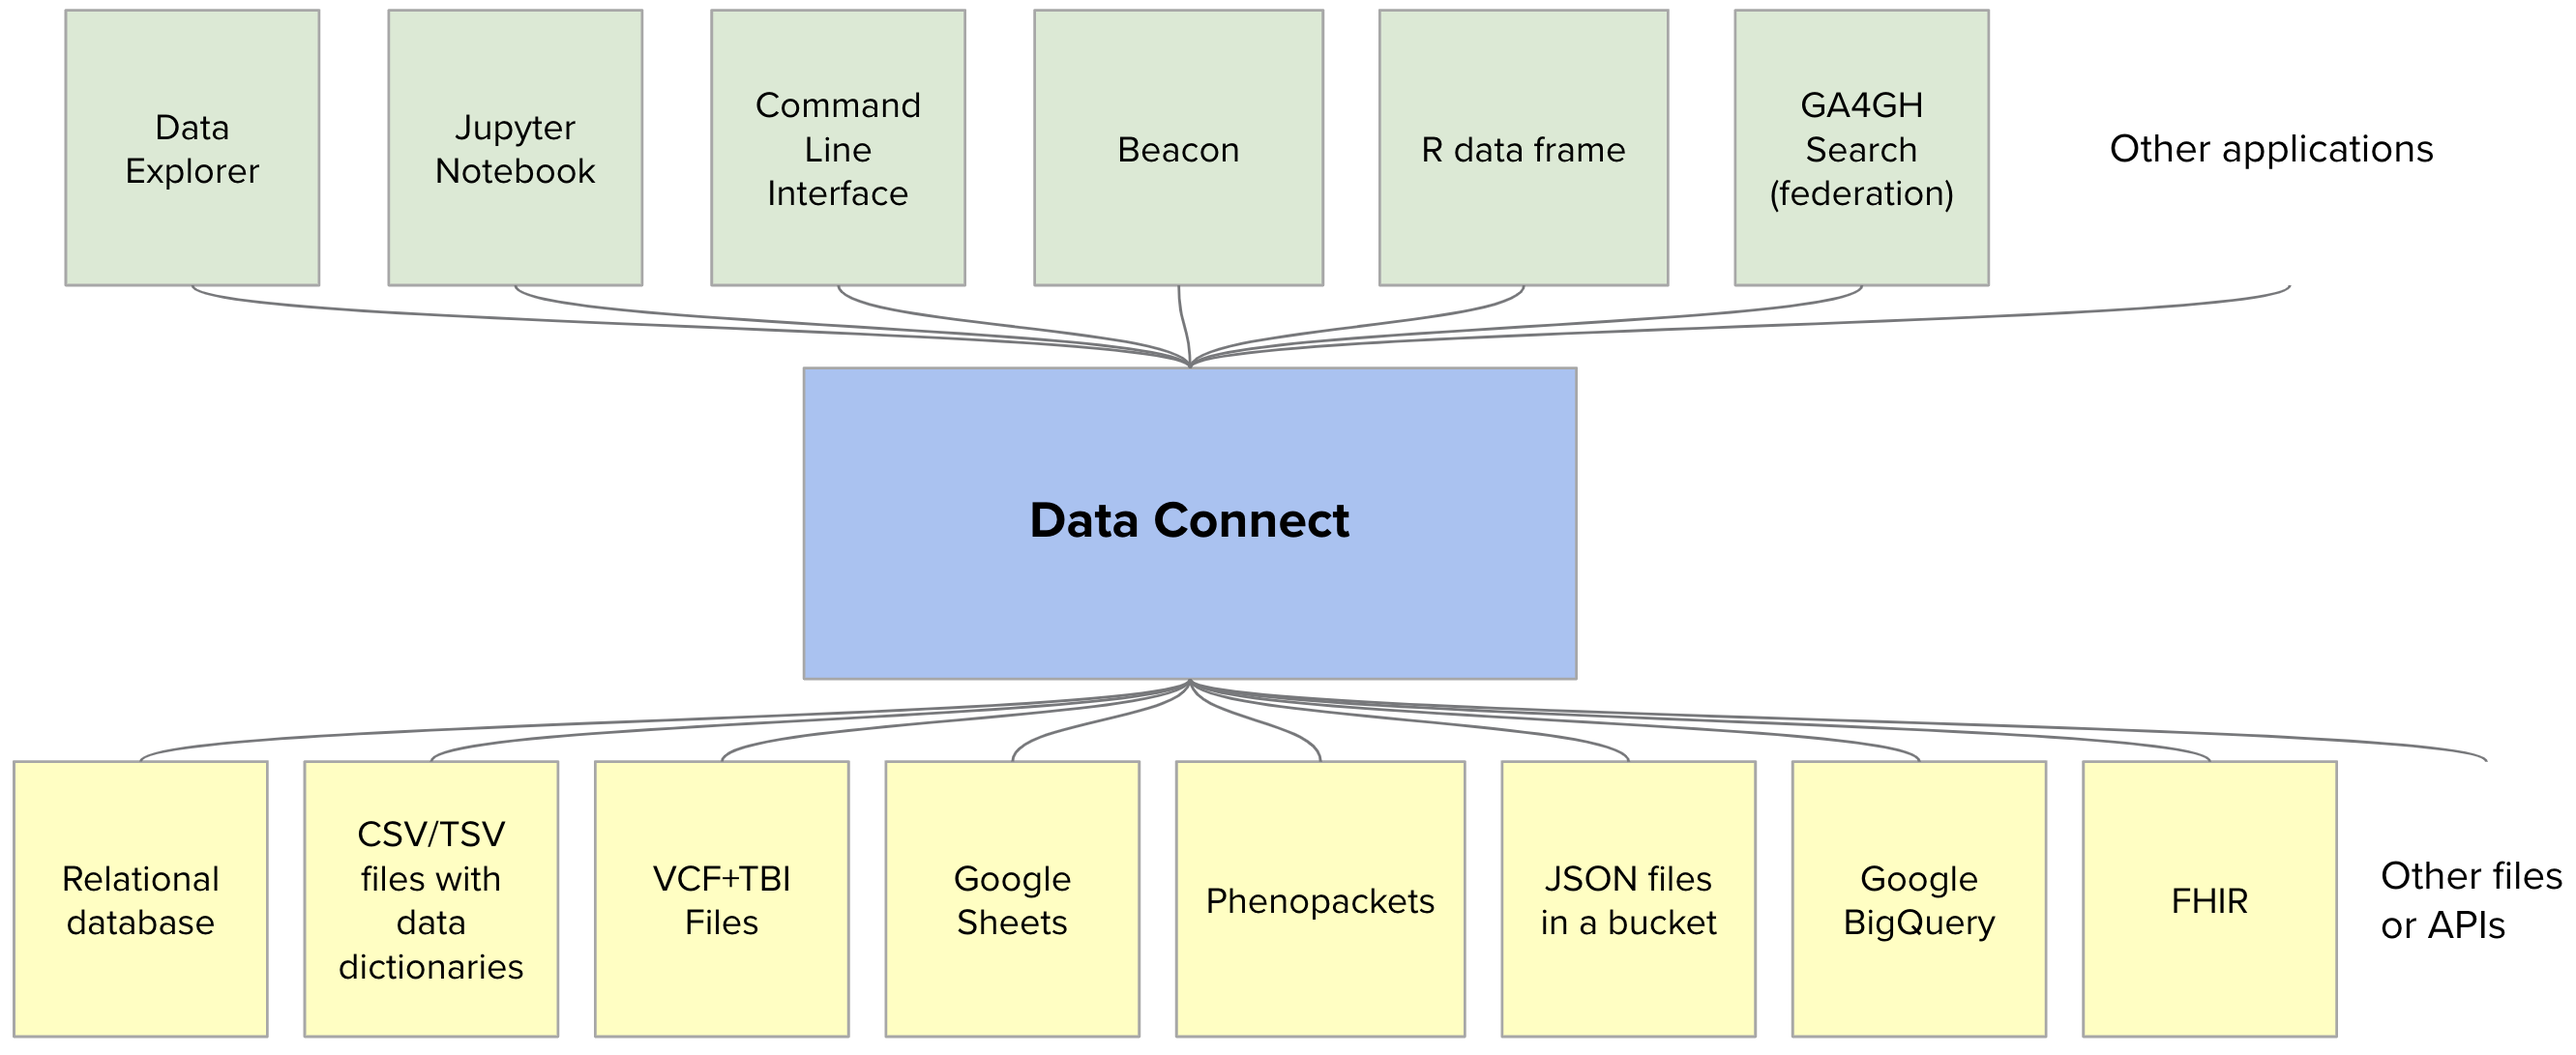
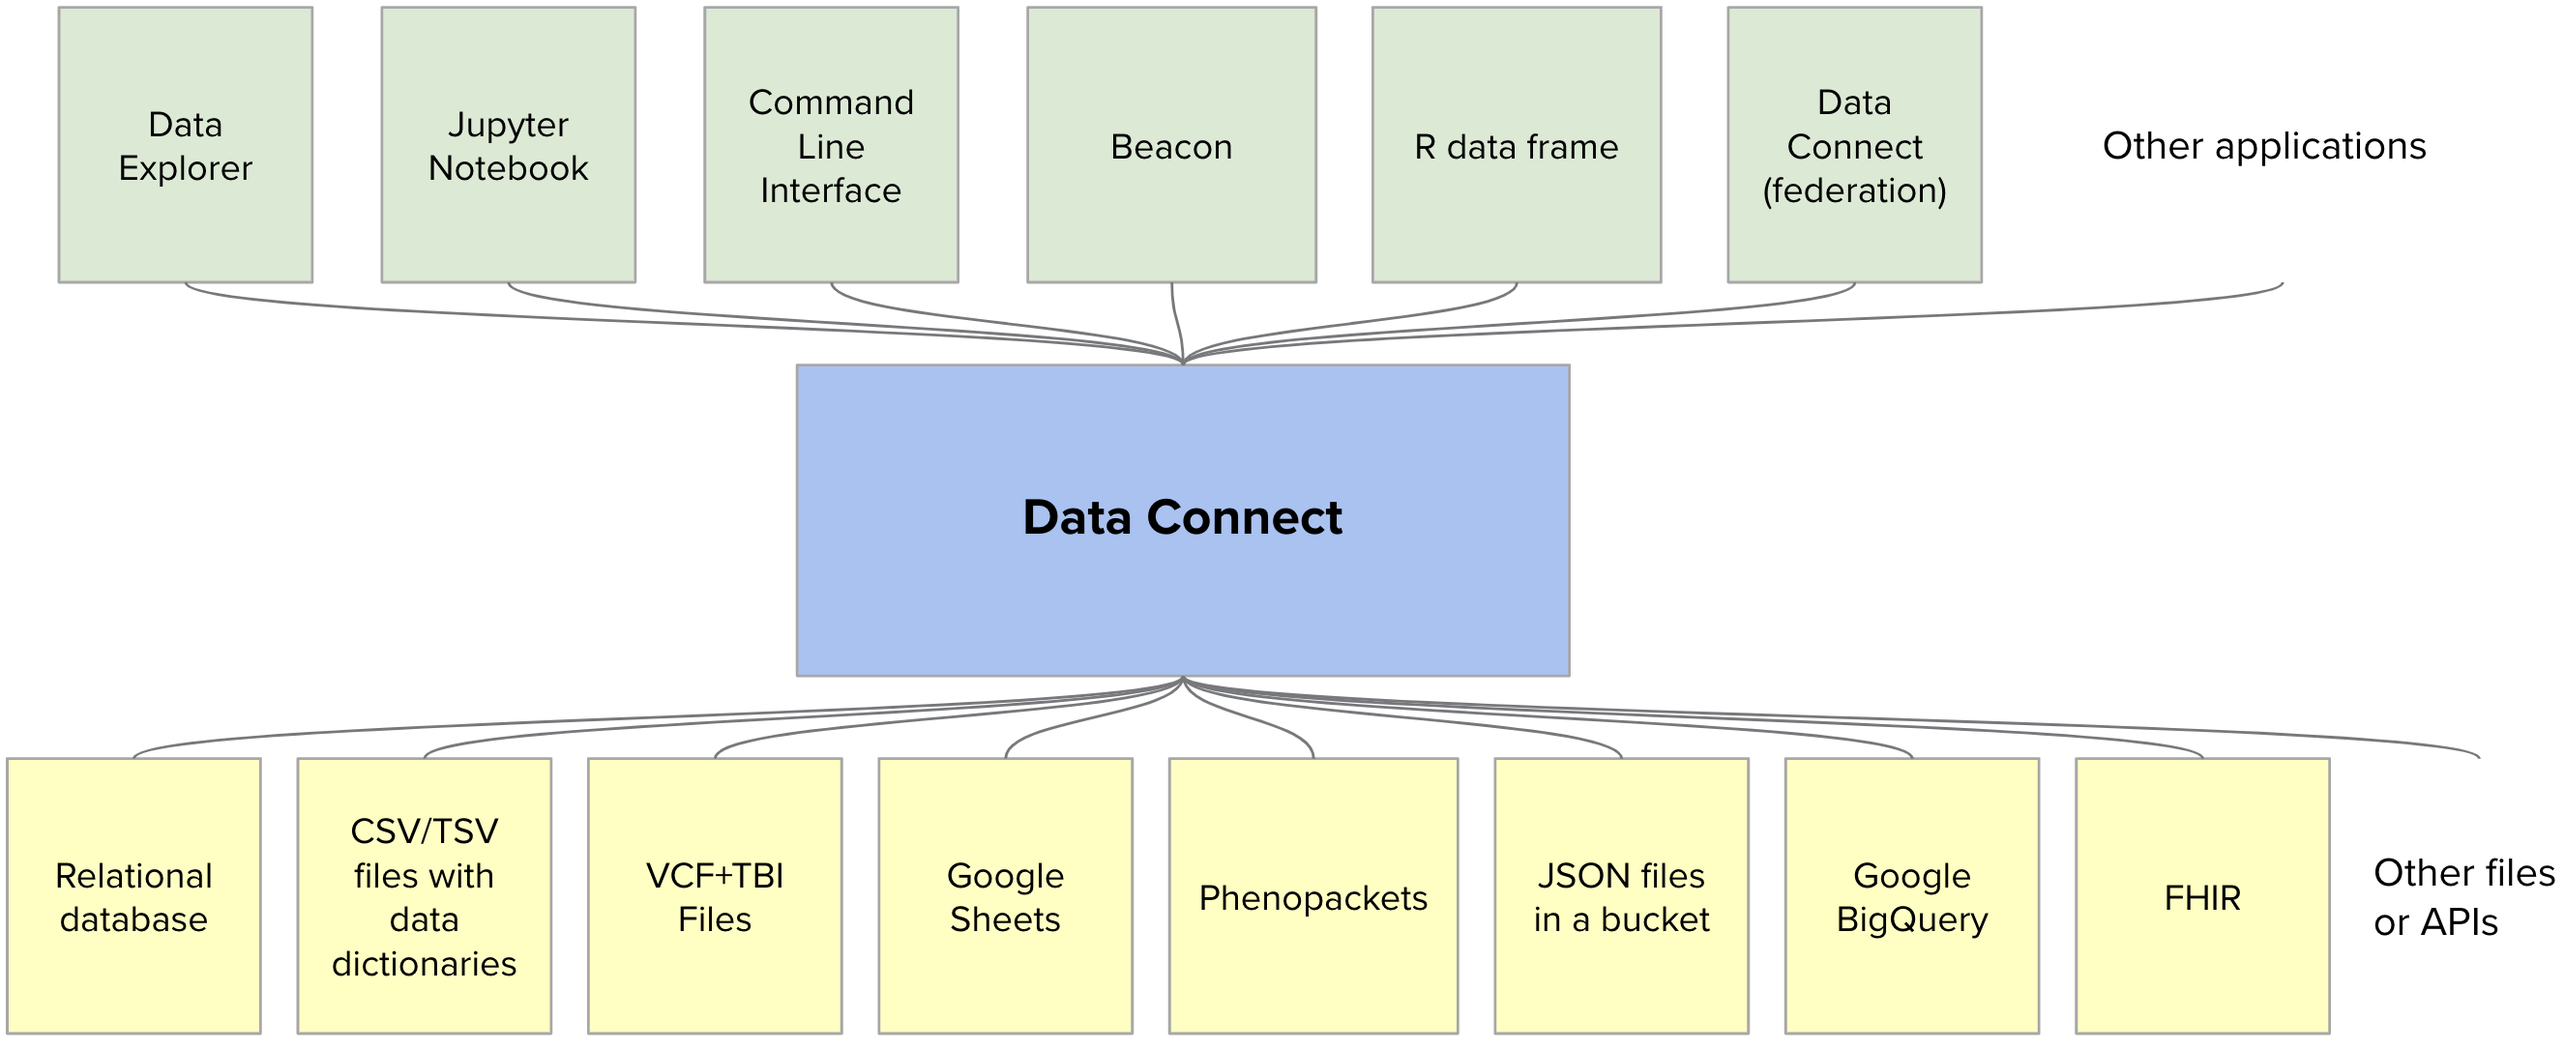
Fix architecture image, issue #112

diff --git a/hugo/content/docs/getting-started/introduction.md b/hugo/content/docs/getting-started/introduction.md
@@ -47,8 +47,6 @@ Data Connect, formerly known as _GA4GH Search_, is this general-purpose middlewa
 
 Data Connect is an intentionally general-purpose middleware meant to enable development of a diverse ecosystem of applications.
 
-<img src="assets/data-connect.png"/>
-
 The community has built the following applications on top of Data Connect:
 
 - Data Explorers
